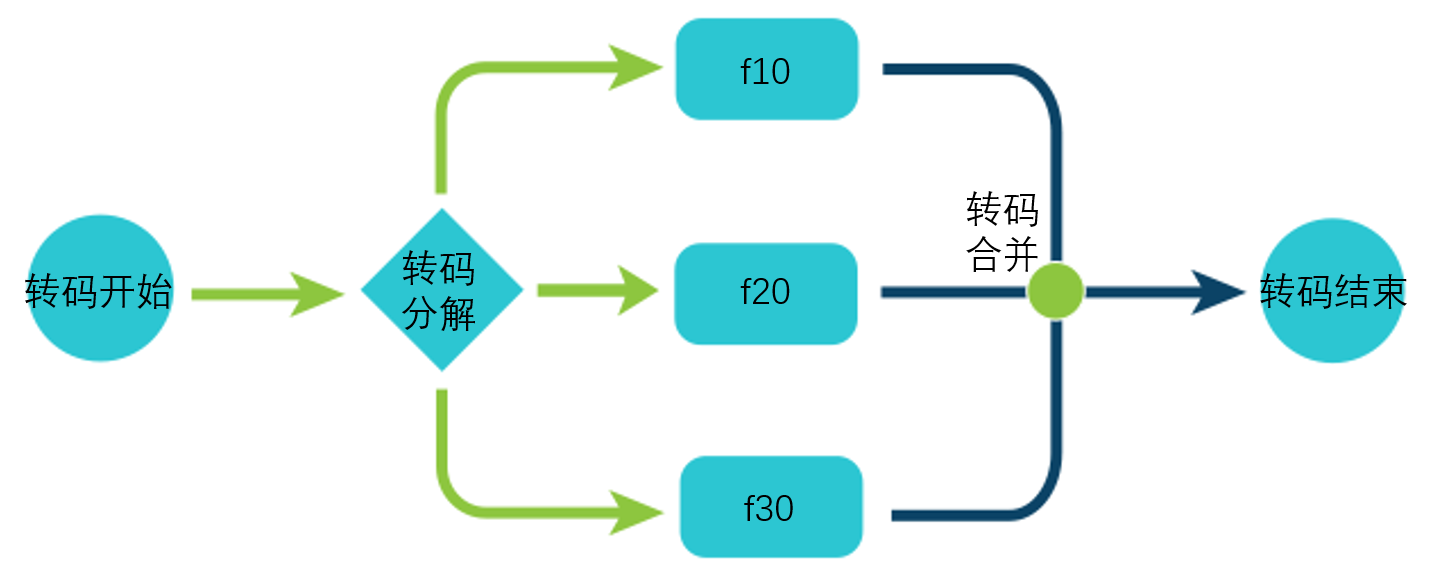
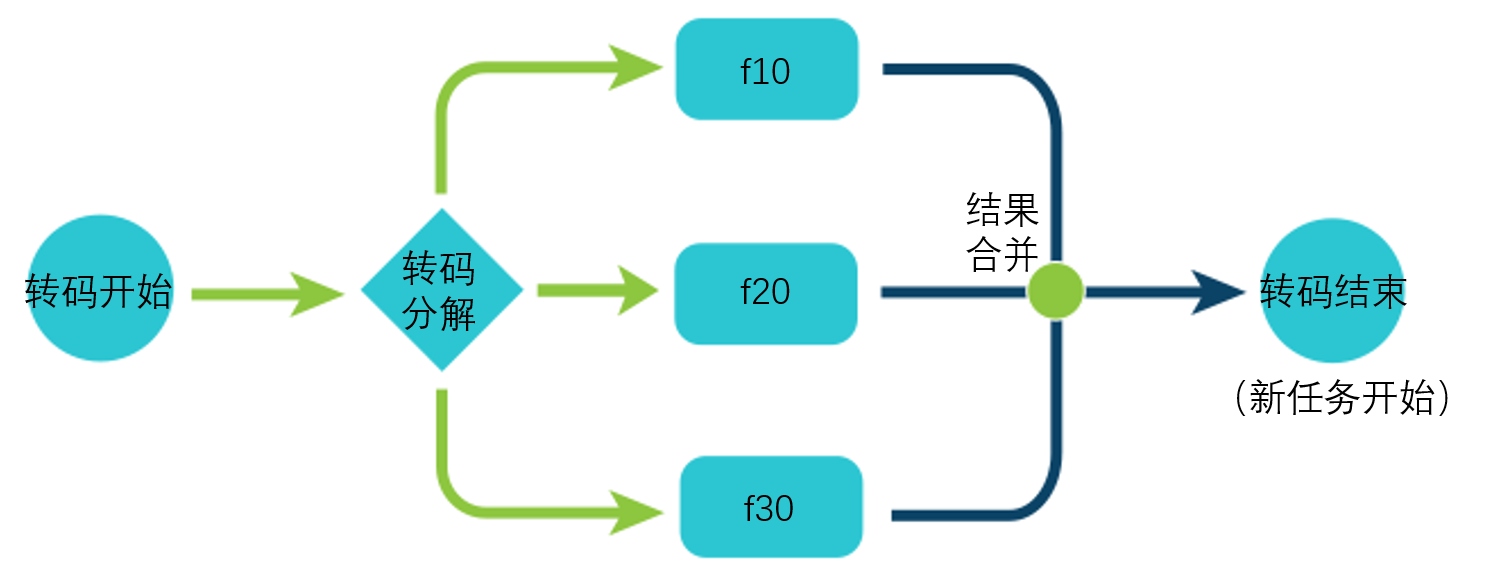
up

diff --git a/product/视频服务/云转码 VTS/开发者指南/工作流/工作流简介.md b/product/视频服务/云转码 VTS/开发者指南/工作流/工作流简介.md
@@ -13,7 +13,16 @@
 在VTS中，工作流可以包含转码、截图（包括动图，雪碧图）、水印等作业任务。比如，转码任务的工作流示例图如下：
 ![转码工作流示例图](../../图片/转码工作流.png)
 
+>? 左侧圆形表示转码开始，如果包含多个规格的转码任务，比如f10，f20和f30，则这些任务会被分解然后并行执行，比如菱形和圆角矩形模块。各转码子任务完成后再将结果进行合并，如图右侧圆点所示。最右侧圆形表示任务结束，可以开始下一个顺序任务的执行，比如对各转码规格进行加密，拼接等后续处理。
+
 ### 工作流工作流程
 
 工作流工作流程概览如下图：
 ![工作流工作流程图](../../图片/工作流流程图.png)
+
+流程说明：
+1. 管理员通过控制台配置工作流。前置工作包括申请CMQ和COS bucket，并对VTS服务角色进行相应授权。
+2. 上传者通过SDK或控制台将音视频文件上传到申请的COS bucket，此时COS会以事件通知的形式通知VTS，然后VTS会创建转码任务，触发转码工作流。
+3. 在工作流处理任务的过程中，会对COS文件进行读写操作。比如下载源文件，上传转码后的文件等。该过程中，任务可并行和串行执行。
+4. 工作流处理结束，VTS会将任务完成消息发送到前述的CMQ中，然后开发者可通过CMQ接口接收该事件消息。
+5. 在客户确认文件转码成功后，可以继续后续业务逻辑，比如通过CDN分发转码后的视频等等。
